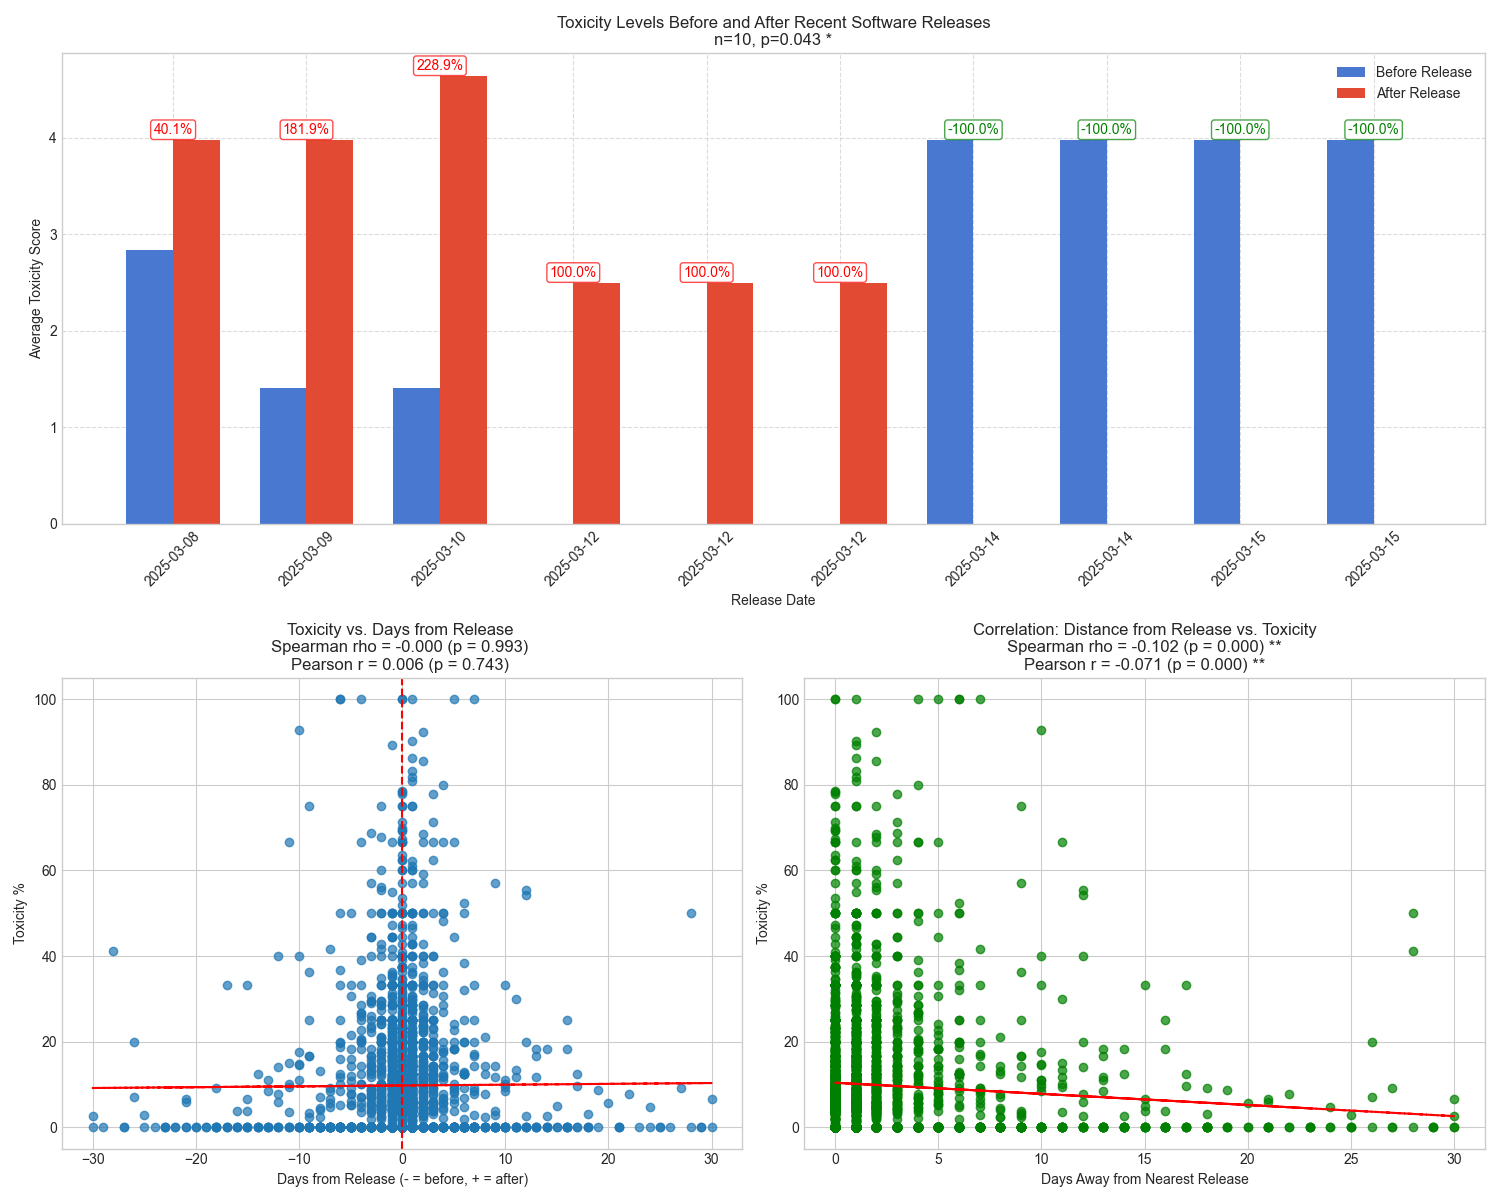
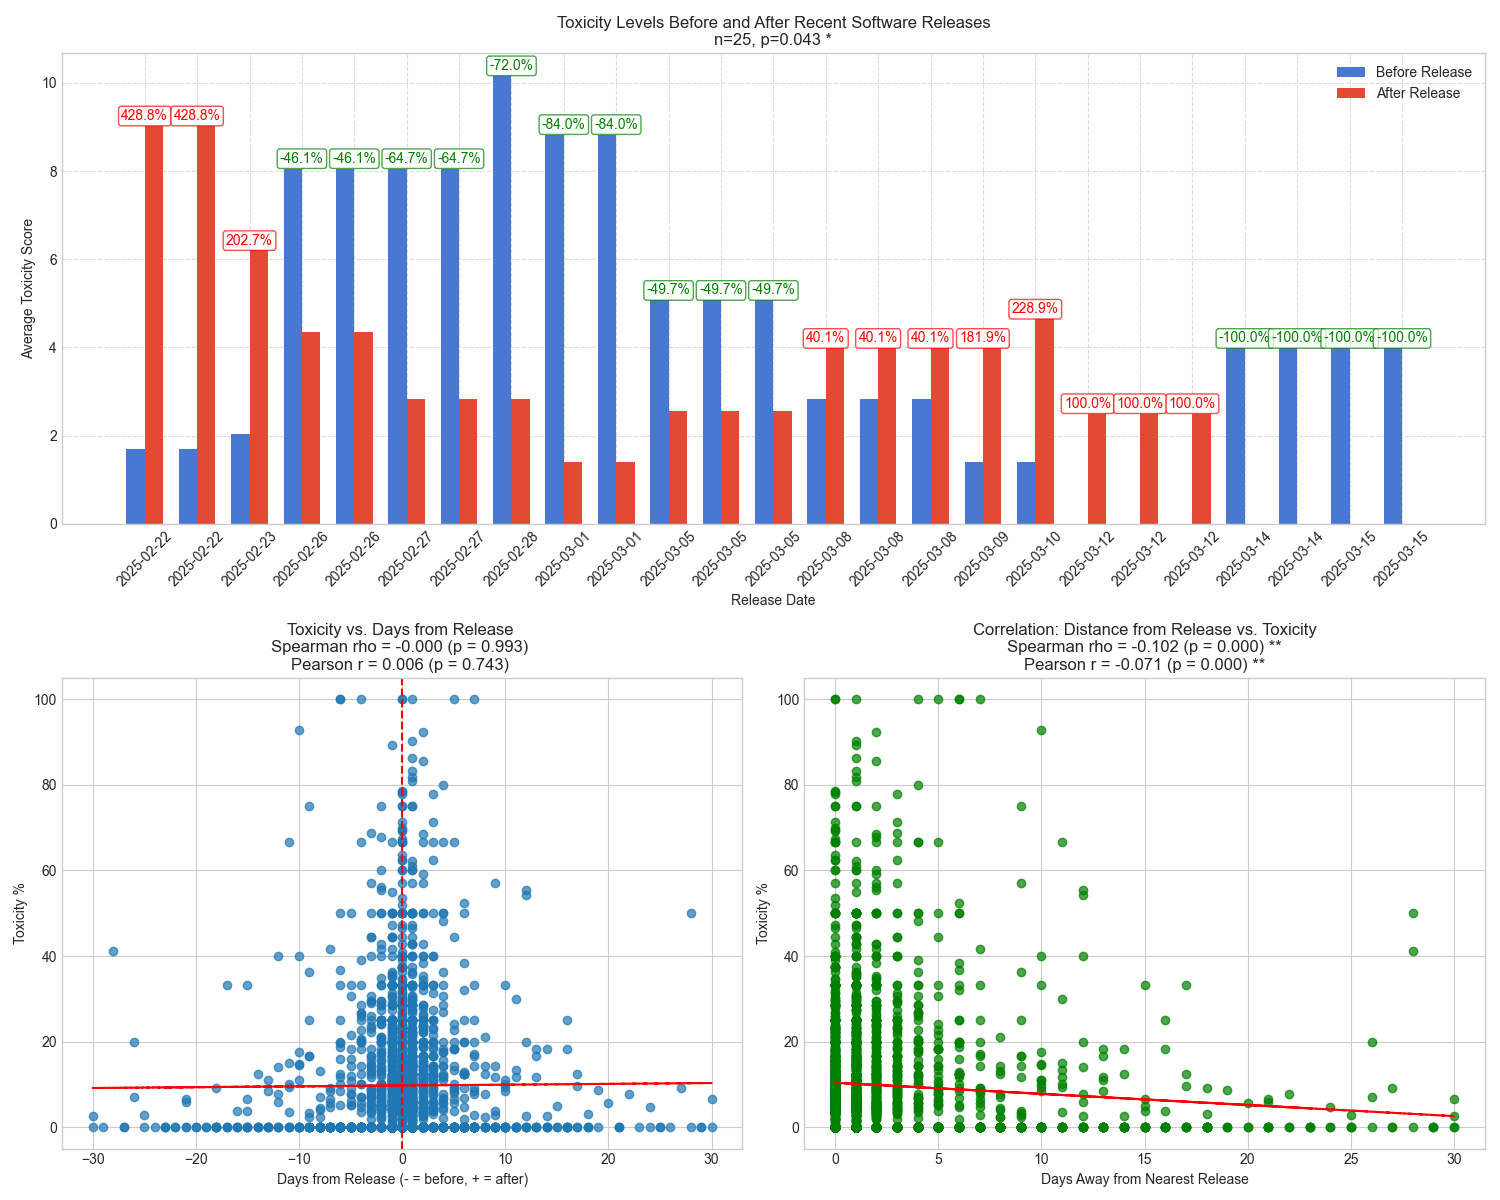
limit to last 25 releases for barchart

Changed region(s): [[0.0613, 0.0308, 0.9507, 0.4933], [0.0, 0.185, 0.0307, 0.3083]]

diff --git a/src/visuals.py b/src/visuals.py
@@ -441,7 +441,7 @@ def rq2(comments_data, releases_data):
         # PLOT 1: Grouped bar chart for each release
         if release_comparisons:
             # Show only most recent N releases if there are too many
-            max_releases_to_show = 10
+            max_releases_to_show = 25
             recent_releases = release_comparisons[-max_releases_to_show:] if len(release_comparisons) > max_releases_to_show else release_comparisons
             
             plt.subplot(2, 1, 1)
